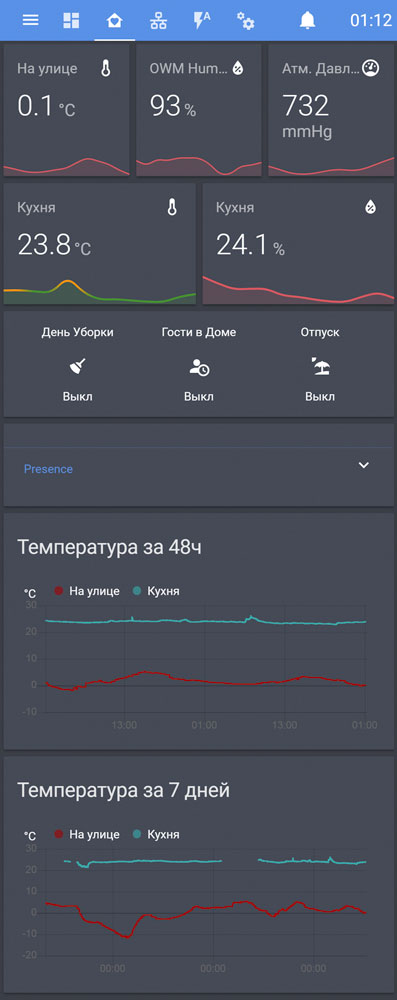
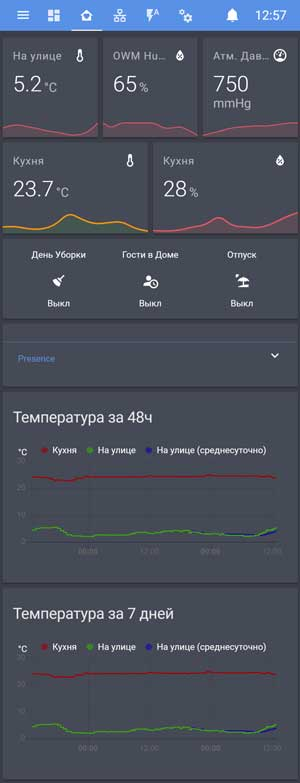
Update screenshots

diff --git a/README.md b/README.md
@@ -68,6 +68,10 @@ System info
 
 [![](https://raw.githubusercontent.com/Limych/HomeAssistantConfiguration/master/docs/images/mobile_system_info.jpg)](https://github.com/Limych/HomeAssistantConfiguration/blob/master/lovelace/30_system_info_view.yaml)
 
+Automations view
+
+[![](https://raw.githubusercontent.com/Limych/HomeAssistantConfiguration/master/docs/images/mobile_home.jpg)](https://github.com/Limych/HomeAssistantConfiguration/blob/master/lovelace/00_home_view.yaml)
+
 #### Desktop
 
 Home view
